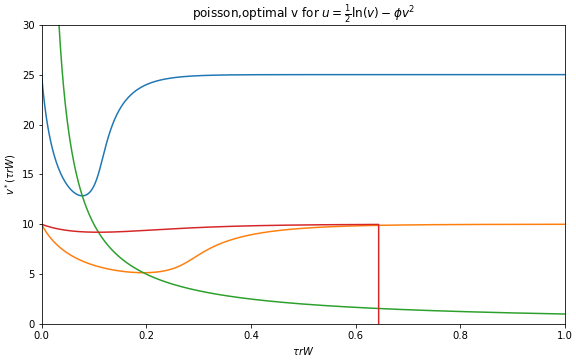
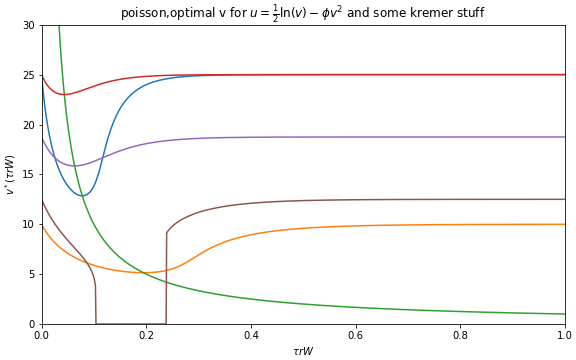
Graph of W(v(W)) for poisson setup.
Had to switch the W solver back to newton method. Even though it's slower and less precise, Brent was running into weird floating point precision errors where tiny value of W would evaluate to the wrong sign.

diff --git a/contagion/numsolve_poisson_manytypes.py b/contagion/numsolve_poisson_manytypes.py
@@ -37,6 +37,8 @@ import sympy as sym
 
 def pp(p):
     print(f"{p:unicode}")
+    
+Ɛ = np.finfo(float).eps
 
 #%% functions to aproximate the value of W, given {A_i,v_i},r,tau
 
@@ -50,7 +52,8 @@ def evaluate_Wfunc(W,  r,tau,Ai_list,vi_list,mu):
     #Ai_list and vi_list are list of population and contacts of each type.
     assert len(Ai_list) == len(vi_list)
     numerator = sum([Ai*vi*calc_p(vi,r,tau,W) for Ai,vi in zip(Ai_list,vi_list)])
-    return (numerator/mu) - W
+    RHS = (numerator/mu)
+    return W-RHS
     
 def approx_W(r,tau,Ai_list,vi_list):
     "This finds the non-zero solution to contact risk formula."
@@ -61,7 +64,8 @@ def approx_W(r,tau,Ai_list,vi_list):
         return 0
     #otherwise find the roots
     Wfunc = lambda W: evaluate_Wfunc(W,  r,tau,Ai_list,vi_list,mu)
-    return optimize.brentq(Wfunc,np.finfo(float).eps,1)
+    #return optimize.brentq(Wfunc,Ɛ/2,1)
+    #was running into weird floating point issues, so switched to newton
     return optimize.newton(Wfunc,1)
 
 def approx_W_newton(r,tau,Ai_list,vi_list):
@@ -117,7 +121,7 @@ def approx_bestvi(r,tau,W,utilfunc):
     #need to look at -U because scipy has minimization functions.
     #only goes to 10^-9 accuracy. And not bumping up against maxiter either. Weird.
     negU = lambda vi: - utilfunc(vi) + calc_p(vi,r,tau,W)
-    return optimize.minimize_scalar(negU, bounds=(0, 1000), method='bounded',options={'xatol': np.finfo(float).eps}).x
+    return optimize.minimize_scalar(negU, bounds=(0, 1000), method='bounded',options={'xatol': Ɛ}).x
     
 
 
@@ -136,7 +140,7 @@ def iterate_vi_list(vi_list,r,tau,Ai_list,utilfunc_list):
 def SPP_v_singletype(r,tau,utilfunc):
     #return the contact rate that gives the maximum utility with awareness of W
     negSPPU = lambda v: - utilfunc(v) + calc_p(v,r,tau,approx_W(r, tau, [1], [v]))
-    return optimize.minimize_scalar(negSPPU,bounds=(0, 1000), method='bounded',options={'xatol': np.finfo(float).eps}).x
+    return optimize.minimize_scalar(negSPPU,bounds=(0, 1000), method='bounded',options={'xatol': Ɛ}).x
 
 
 

diff --git a/contagion/graph_poisson_manytypes.py b/contagion/graph_poisson_manytypes.py
@@ -32,7 +32,9 @@ plt.plot(unit_grid,[npm.approx_bestvi(1,1,rtauW,npm.u_vlogtaper_H) for rtauW in 
 plt.plot(unit_grid,[npm.approx_bestvi(1,1,rtauW,npm.u_vlogtaper_L) for rtauW in unit_grid])
 plt.plot(unit_grid,[1/Ψ for Ψ in unit_grid])
 plt.plot(unit_grid,[npm.approx_bestvi(1,1,rtauW,npm.u_kremertest) for rtauW in unit_grid])
-labelSubplot(ax, r'poisson,optimal v for $u=\frac{1}{2}\ln(v)-\phi v^2$',r'$\tau r W$',r'$v^*(\tau r W)$')
+plt.plot(unit_grid,[npm.approx_bestvi(1,1,rtauW,npm.u_kremertest2) for rtauW in unit_grid])
+plt.plot(unit_grid,[npm.approx_bestvi(1,1,rtauW,npm.u_kremertest3) for rtauW in unit_grid])
+labelSubplot(ax, r'poisson,optimal v for $u=\frac{1}{2}\ln(v)-\phi v^2$ and some kremer stuff',r'$\tau r W$',r'$v^*(\tau r W)$')
 ax.set_ylim([0,30])
 ax.set_xlim([0,1])
 plt.savefig('graph_poisson_v(rtauW)_logtaper.png')
@@ -40,6 +42,23 @@ plt.savefig('graph_poisson_v(rtauW)_logtaper.png')
 
 
 #%% Plot W vs W(v(W))
+
+def plot_Witeration(Ai_list,utilfunc_list,speciallabel):
+    fig,ax = plt.subplots(figsize=(8,8),constrained_layout=True)
+    ax.plot(unit_grid,unit_grid,c='black',linestyle='dotted')
+    ##r and tau are interchangable in consumers problem and in W formula.
+    for r in [0.01,0.05,0.09,0.1,0.12,0.15,0.1535,0.2,0.3,0.6,1]:
+        newW_grid = [npm.iterate_W(W,r,1,Ai_list,utilfunc_list) for W in unit_grid]
+        ax.scatter(unit_grid, newW_grid, label=r'$r\tau=$'+str(r), marker='.')
+    ax.set_ylim([0,1])
+    ax.set_xlim([0,1])
+    ax.grid()
+    ax.legend()
+    labelSubplot(ax, 'poisson,W(v(W)),'+speciallabel, '$W$', '$W(\{v_i^*(W)\})$')
+    plt.savefig('graph_poisson_W(v(W))_'+speciallabel+'.png')
+    
+plot_Witeration([0.5,0.5],[npm.u_vlogtaper_H,npm.u_vlogtaper_L],'vlogtaper25,10')    
+    
 
 
 

diff --git a/contagion/poisson approach.md b/contagion/poisson approach.md
@@ -177,7 +177,37 @@ Would just have to find fixed points I suppose.
 
 
 
+## Examples
 
+<!--A note about Kremer's $$u(v)=\theta_i v_i - \phi v_i^2$$:
+With my risk function, $$1-e^{-v_i \cdot r\tau W}$$, 
+the marginal utility will be $$\theta_i - 2 \phi v_i  + r\tau W e^{-v_i \cdot r\tau W}$$.
+This means that the marg utility is negative for all $$v$$ 
+when $$\theta_i - 2 \phi v_i$$ is below a tangent line for $$r\tau W e^{-v_i \cdot r\tau W}$$.
+The tangent lines go through the point $$(a,Ae^{-Aa})$$ where $$A\equiv Wr\tau$$
+and have slope $$-A^2e^{-Aa}$$.
+Put in slope intercept form, they become $$y=-A^2e^{-Aa}x + (Ae^{-Aa}+aA^2e^{-Aa})$$.
+This means if $$\phi=A^2e^{-Aa}$$, 
+then to get nonzero optimum, need $$\theta > (Ae^{-Aa}+aA^2e^{-Aa})$$.
+At $$A=1$$, this means $$\phi=e^{-a}$$ needs $$\theta > (1+a)e^{-a} = (1+a)\phi$$,
+and $$a=-\ln(\phi)$$, so needs $$\theta > (1-\ln(\phi))\phi$$.
+More generally, it's $$\theta > \phi\cdot A\cdot (1-\ln(\phi / A^2))$$
+So if $$A=1,\phi=0.002$$, need $$\theta > (1-\ln(0.002))0.002 \approx 0.014$$-->
+
+### Example with taper log utility.
+
+$$u(v) = \frac{1}{2} [\ln(v) - \frac{1}{2\phi^2}v^2]$$
+
+for $$\psi = 25$$ and $$\psi = 10$$.
+
+
+![](graph_poisson_v(rtauW)_logtaper.png)
+
+*Just the orange and blue lines. The rest are a utility function of Kremer's that I used to debug.*
+
+![](graph_poisson_W(v(W))_vlogtaper25,10.png)
+
+*When the line is crammed against the bottom, that means the $$r\tau$$ is so low that the infection dies out even  if nobody social distances at all. When the line is crammed against the top, it means that $$r\tau$$ is so high that even the quarantine behavior of individuals isn't enough to appreciably reduce their chance of getting sick, or at least not among the types that dominate connections.*
 
 
 # TODO tomorrow:
@@ -188,11 +218,11 @@ Would just have to find fixed points I suppose.
 - [x] Extend equilibrium to multiple types?
 - [ ] Calculate the Poisson contact equilibrium for a few different utility functions.
     - See notes right up above.
+- [ ] Think about the following:
 
-
-What if vaccine arrives with poisson rate bleh?
-Then probability of infection becomes vrtauW/(vrtauW+bleh)?
-Doesn't seem quite the same, given that the W is also affected by vaccine arrival.
+    What if vaccine arrives with poisson rate bleh?
+    Then probability of infection becomes vrtauW/(vrtauW+bleh)?
+    Doesn't seem quite the same, given that the W is also affected by vaccine arrival.
 
 
 
